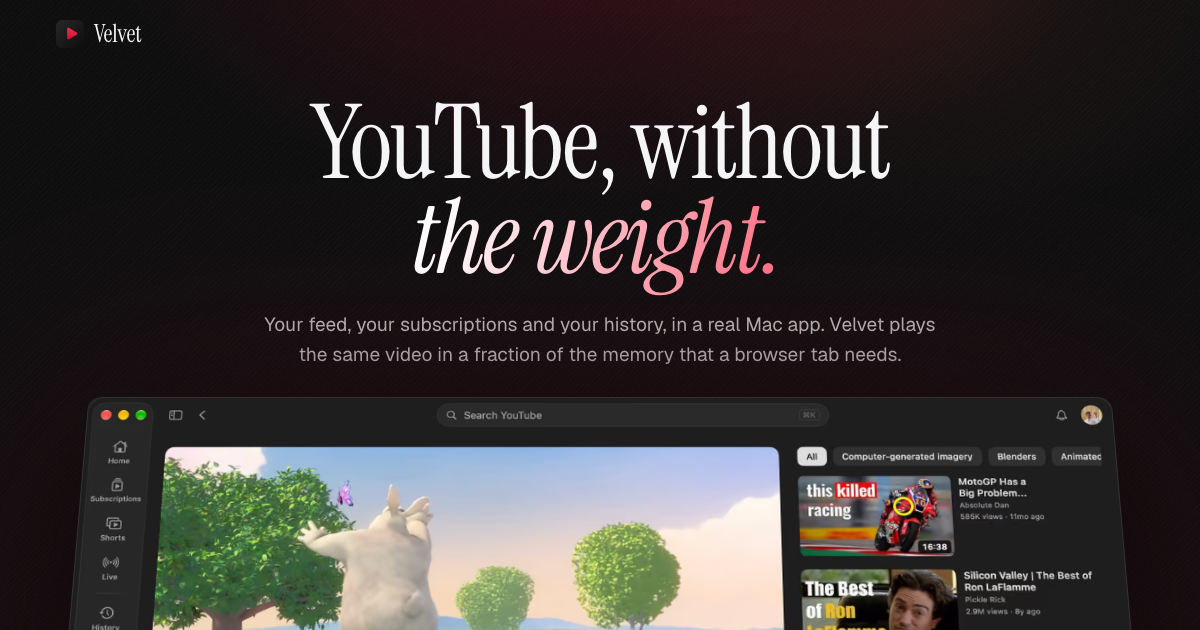
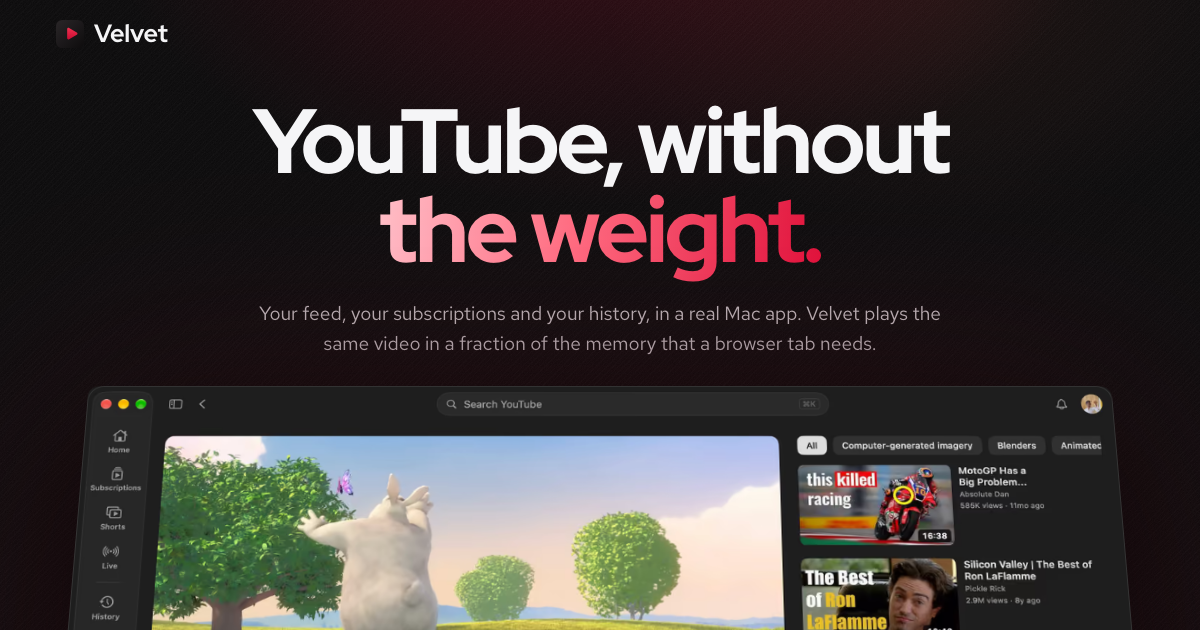
Website: Red Hat Display and Red Hat Text; no eyebrow dot
The serif display font and the dot before each section label looked generic. Headlines now use Red Hat Display and body text Red Hat Text, both served from the site (no request to Google Fonts).

Changed region(s): [[0.0617, 0.6032, 0.925, 1.0], [0.2158, 0.1508, 0.8017, 0.573], [0.0617, 0.0302, 0.1542, 0.0905]]

diff --git a/site/src/styles/global.css b/site/src/styles/global.css
@@ -1,6 +1,5 @@
-@import '@fontsource/instrument-serif/400.css';
-@import '@fontsource/instrument-serif/400-italic.css';
-@import '@fontsource-variable/geist';
+@import '@fontsource-variable/red-hat-display';
+@import '@fontsource-variable/red-hat-text';
 
 :root {
   --bg: #0a090a;
@@ -15,8 +14,8 @@
   --crimson-soft: #ff6b80;
   --crimson-glow: rgba(224, 16, 58, 0.35);
 
-  --serif: 'Instrument Serif', 'Iowan Old Style', 'Times New Roman', serif;
-  --sans: 'Geist Variable', -apple-system, BlinkMacSystemFont, 'Helvetica Neue', sans-serif;
+  --display: 'Red Hat Display Variable', -apple-system, BlinkMacSystemFont, 'Helvetica Neue', sans-serif;
+  --sans: 'Red Hat Text Variable', -apple-system, BlinkMacSystemFont, 'Helvetica Neue', sans-serif;
   --mono: ui-monospace, 'SF Mono', Menlo, monospace;
 
   --gutter: clamp(20px, 5vw, 56px);
@@ -129,9 +128,6 @@ button {
 }
 
 .eyebrow {
-  display: inline-flex;
-  align-items: center;
-  gap: 10px;
   font-size: 13px;
   font-weight: 500;
   letter-spacing: 0.14em;
@@ -139,26 +135,21 @@ button {
   color: var(--ink-3);
 }
 
-.eyebrow::before {
-  content: '';
-  width: 6px;
-  height: 6px;
-  border-radius: 50%;
-  background: var(--crimson);
-  box-shadow: 0 0 12px var(--crimson-glow);
-}
 
 .display {
-  font-family: var(--serif);
-  font-size: clamp(40px, 6.4vw, 84px);
-  line-height: 1;
-  letter-spacing: -0.015em;
+  font-family: var(--display);
+  font-weight: 750;
+  letter-spacing: -0.03em;
+  font-size: clamp(36px, 5.4vw, 72px);
+  line-height: 1.02;
+  letter-spacing: -0.035em;
   text-wrap: balance;
 }
 
+/* Two-tone headlines: the second part is quieter. */
 .display em {
-  font-style: italic;
-  color: var(--ink-2);
+  font-style: normal;
+  color: var(--ink-3);
 }
 
 .lede {
@@ -272,7 +263,7 @@ kbd {
 
 /* Two-part headlines in a narrow column: the second part on its own line. */
 .display.stack {
-  font-size: clamp(38px, 5.2vw, 72px);
+  font-size: clamp(34px, 4.6vw, 62px);
 }
 
 .display.stack em {
